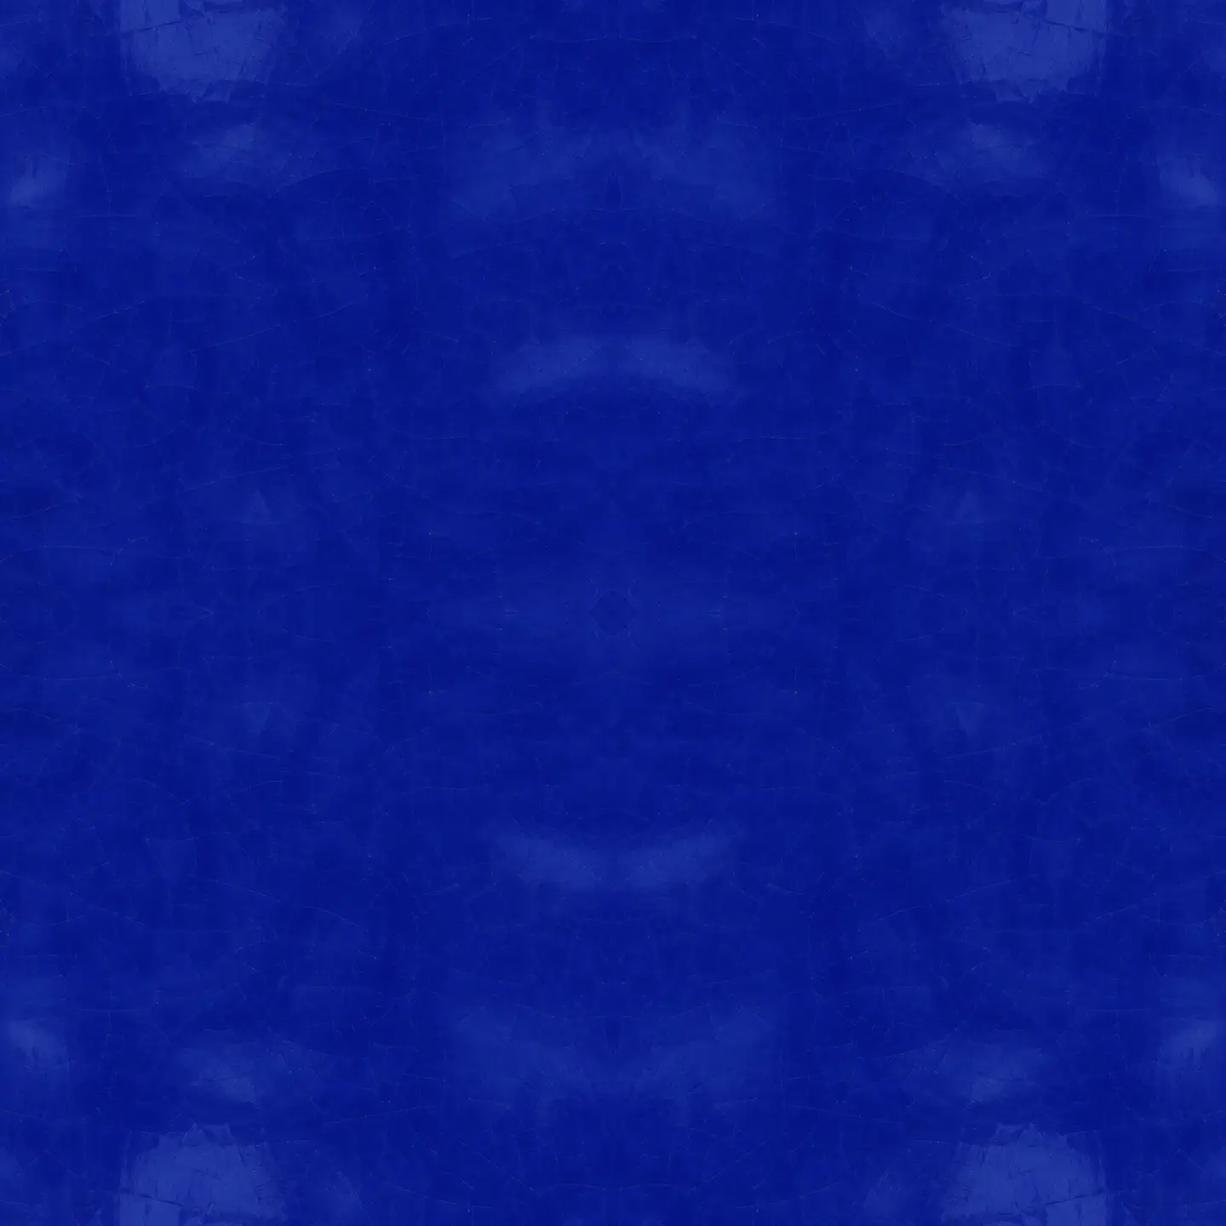
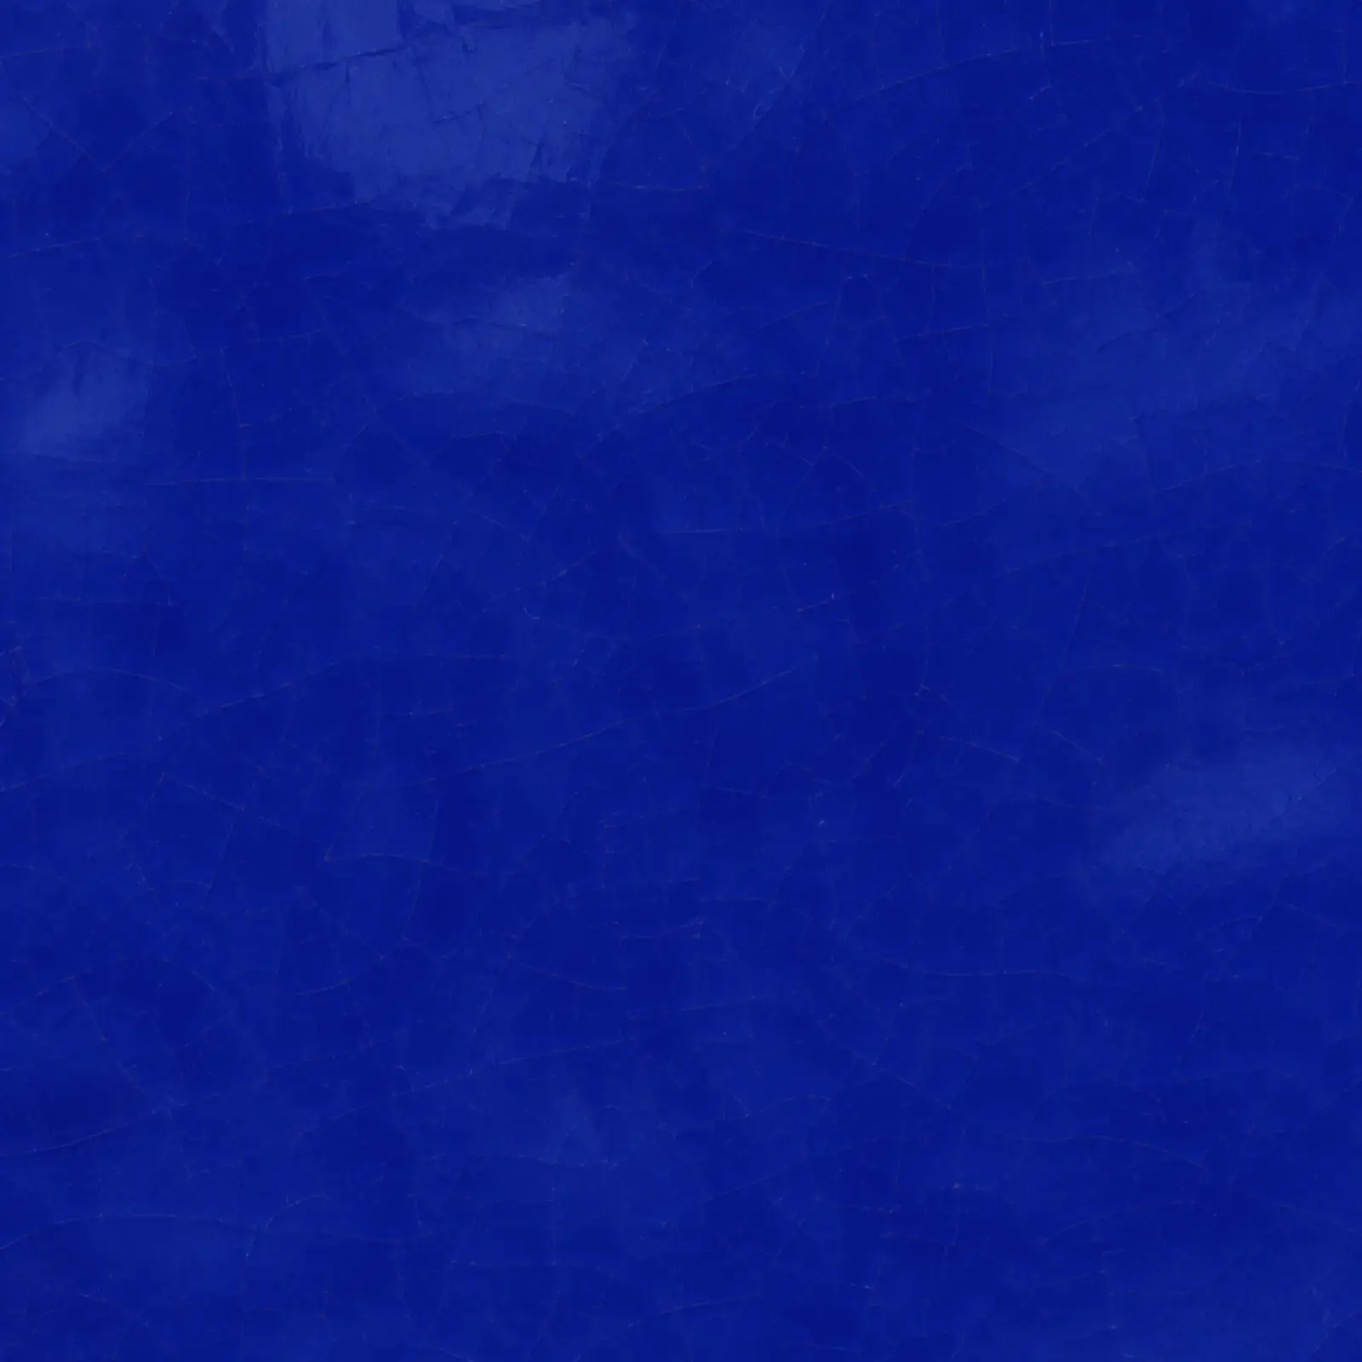
Segunda ronda de revisión: esmalte de fondo sin mosaico, 3 columnas desde 1360px, cortes de línea balanceados

diff --git a/src/app/globals.css b/src/app/globals.css
@@ -23,7 +23,7 @@
 }
 
 html {
-  background: var(--cobalt-deep);
+  background: var(--cobalt);
   color: var(--glaze-white);
   font-family: var(--font);
   -webkit-text-size-adjust: 100%;
@@ -35,8 +35,18 @@ body {
   min-height: 100dvh;
   font-size: var(--step-0);
   line-height: 1.5;
-  background: var(--cobalt) url(/plates/glaze-cobalt.webp) center top / 720px repeat;
+  background: transparent;
   -webkit-font-smoothing: antialiased;
+}
+
+/* La pared: una sola foto de esmalte, quieta detrás de todo (sin mosaico ni repeticiones). */
+body::before {
+  content: "";
+  position: fixed;
+  inset: 0;
+  z-index: -1;
+  background: var(--cobalt) url(/plates/glaze-cobalt.webp) center / cover no-repeat;
+  pointer-events: none;
 }
 
 ::selection {

diff --git a/src/components/store-view.module.css b/src/components/store-view.module.css
@@ -33,11 +33,12 @@
   font-size: var(--step-1);
   line-height: 1.35;
   font-weight: 400;
-  text-wrap: pretty;
+  text-wrap: balance;
 }
 
 .updated {
   margin: 0;
+  text-wrap: balance;
   font-size: var(--step-0);
   color: var(--glaze-soft);
 }
@@ -309,7 +310,7 @@
 
 @media (min-width: 1024px) {
   .wall:not([data-compact]) {
-    grid-template-columns: clamp(320px, 26vw, 420px) minmax(0, 1fr);
+    grid-template-columns: clamp(330px, 26vw, 420px) minmax(0, 1fr);
   }
 
   .wall:not([data-compact]) .intro {
@@ -333,7 +334,7 @@
   }
 }
 
-@media (min-width: 1500px) {
+@media (min-width: 1360px) {
   .wall:not([data-compact]) .tiles {
     grid-template-columns: repeat(3, minmax(0, 1fr));
   }

diff --git a/DESIGN.md b/DESIGN.md
@@ -1,9 +1,9 @@
 ---
 name: Norma · cerámica
-description: La pared esmaltada del taller donde Norma cuelga sus tablillas de prueba, cada una con su número grabado en el barro.
+description: La pared esmaltada del taller donde Norma cuelga sus tablillas de prueba, cada una con su número en el barro.
 colors:
-  cobalt: "#0b1a6e"
-  cobalt-deep: "#071150"
+  cobalt: "#0e2189"
+  cobalt-deep: "#091862"
   glaze-white: "#ffffff"
   glaze-soft: "#dfe5ff"
   glaze-line: "rgb(223 229 255 / 0.28)"
@@ -19,6 +19,13 @@ typography:
     fontWeight: 800
     lineHeight: 1.08
     letterSpacing: "-0.015em"
+  phone:
+    fontFamily: "Atkinson Hyperlegible Next, system-ui, sans-serif"
+    fontSize: "clamp(2rem, 1.6rem + 1.6vw, 2.75rem)"
+    fontWeight: 800
+    lineHeight: 1.15
+    letterSpacing: "0.01em"
+    fontFeature: "tnum"
   title:
     fontFamily: "Atkinson Hyperlegible Next, system-ui, sans-serif"
     fontSize: "clamp(1.5rem, 1.3rem + 0.8vw, 1.85rem)"
@@ -41,20 +48,20 @@ typography:
     lineHeight: 1.3
   tile-number:
     fontFamily: "Atkinson Hyperlegible Next, system-ui, sans-serif"
-    fontSize: "clamp(2.4rem, 13.5cqw, 4.2rem)"
+    fontSize: "clamp(2.8rem, 15cqw, 4.4rem)"
     fontWeight: 800
     lineHeight: 1
     letterSpacing: "-0.03em"
     fontFeature: "tnum"
   tile-price:
     fontFamily: "Atkinson Hyperlegible Next, system-ui, sans-serif"
-    fontSize: "clamp(1.4rem, 7.8cqw, 2rem)"
+    fontSize: "clamp(1.55rem, 8.5cqw, 2.1rem)"
     fontWeight: 800
     lineHeight: 1.1
     fontFeature: "tnum"
   tile-title:
     fontFamily: "Atkinson Hyperlegible Next, system-ui, sans-serif"
-    fontSize: "clamp(1.12rem, 6.2cqw, 1.6rem)"
+    fontSize: "clamp(1.3rem, 7cqw, 1.7rem)"
     fontWeight: 700
     lineHeight: 1.06
 rounded:
@@ -86,7 +93,13 @@ components:
     rounded: "{rounded.window}"
   phone-number:
     textColor: "{colors.glaze-white}"
-    typography: "{typography.title}"
+    typography: "{typography.phone}"
+  button-amber:
+    backgroundColor: "{colors.amber}"
+    textColor: "{colors.amber-ink}"
+    rounded: "{rounded.pill}"
+    padding: "8px 18px"
+    height: "44px"
   badge-flash:
     backgroundColor: "{colors.amber}"
     textColor: "{colors.amber-ink}"
@@ -100,132 +113,141 @@ components:
 
 **Creative North Star: "La pared del taller"**
 
-La página es la pared de esmalte cobalto del taller de Norma, y cada pieza es una tablilla de prueba de gres colgada de un clavo: arriba el esmalte (celadón, rojo hierro, shino o ceniza) con la foto embutida como una ventanita, abajo la franja de barro crudo donde el número está grabado, hundido, al lado del nombre y el precio. Los materiales son raster reales (`public/plates/`), no dibujos de vector: el cobalto es una textura que repite, las tablillas son losas fotográficas, y el logo y el trazo de pincel son máscaras que se pintan con el color del tema.
+La página es la pared de esmalte cobalto del taller de Norma, y cada pieza es una tablilla de prueba de gres colgada de un clavo: arriba el esmalte (celadón, rojo hierro, shino o ceniza) con la foto embutida como una ventanita, abajo la franja de barro crudo con el número de la pieza en tinta de sello, al lado del nombre y el precio. Los materiales son raster reales (`public/plates/`), no dibujos de vector: el cobalto es una textura craquelada con brillo suave que repite, las tablillas son losas fotográficas, y el logo (sólo la palabra a pincel) y el trazo de pincel son máscaras que se pintan con el color del tema.
 
 Está pensada para compradores de unos 70 años en el celular. Por eso todo es grande, en una sola familia tipográfica hiperlegible, con contraste alto y números enormes; la decoración nunca le compite a la lectura. Rechaza la grilla de tienda (card blanca, foto, título, botón) y el crema-serif-terracota genérico.
 
 **Key Characteristics:**
-- Fondo de esmalte cobalto texturado, texto blanco y blanco-esmalte.
-- Tablillas levemente torcidas sobre su clavo que se hamacan al tocarlas.
-- Número grabado en barro crudo como dato principal de cada pieza.
+- Fondo de esmalte cobalto craquelado, con rango tonal comprimido para que el texto blanco nunca baje de 7:1.
+- Tablillas verticales, levemente torcidas sobre su clavo, que se hamacan al tocarlas.
+- Número de pieza en tinta de barro como dato principal de cada tablilla.
 - Una sola tipografía (Atkinson Hyperlegible Next) en 400, 700 y 800.
 - Un dorso en texto llano: la misma lista como tabla, por si es más fácil.
 
 ## Colors
 
-Un mundo de dos materiales: esmalte cobalto profundo para el fondo y barro crudo para las etiquetas, con un único acento ámbar reservado para foco y novedad.
+Un mundo de dos materiales: esmalte cobalto profundo para el fondo y barro crudo para las etiquetas, con un único acento ámbar reservado para foco, novedad y la acción de ver el cambio.
 
 ### Primary
-- **Esmalte Cobalto** (cobalt): el color del fondo bajo la textura `glaze-cobalt.webp` (720px, repetida) y el `theme-color` del navegador. Todo el texto del mundo se lee sobre él.
-- **Cobalto de Horno** (cobalt-deep): el fondo del `html` (se ve en el overscroll) y el texto sobre la pestaña seleccionada.
+- **Esmalte Cobalto** (cobalt): color base bajo la textura `glaze-cobalt.webp` (720px, repetida) y `theme-color` del navegador. Contra el color plano, el blanco da 13.1:1; contra la textura, 7.9:1 en su punto más claro y 13.5:1 de promedio.
+- **Cobalto de Horno** (cobalt-deep): fondo del `html` (se ve en el overscroll) y texto sobre la pestaña seleccionada (15.9:1 sobre blanco).
 
 ### Secondary
-- **Ámbar de Foco** (amber): anillo de foco (3px, offset 4px), selección de texto y el aviso de "cambió" en el simulador. Nunca decorativo.
+- **Ámbar de Foco** (amber): anillo de foco (3px, offset 4px), selección de texto, aviso "cambió" y el botón "Ver cómo quedó la página". Nunca decorativo.
 - **Tinta Ámbar** (amber-ink): texto sobre ámbar (13.1:1).
 
 ### Neutral
-- **Blanco Esmalte** (glaze-white): texto principal, logo y trazo de pincel. 15.1:1 sobre cobalto.
-- **Esmalte Lavado** (glaze-soft): texto secundario (fecha, explicación, encabezados de tabla, pie). 12.1:1 sobre cobalto.
+- **Blanco Esmalte** (glaze-white): texto principal, logo y trazo de pincel.
+- **Esmalte Lavado** (glaze-soft): texto secundario (fecha, explicación, encabezados de tabla, pie). 10.5:1 sobre el cobalto plano, no menos de 6:1 en el punto más claro de la textura.
 - **Línea de Esmalte** (glaze-line): filetes de la tabla y separador del bloque de contacto (1–2px).
 - **Bizcocho** (bisque): referencia del barro crudo de las losas; la franja real es raster, el token fija contra qué se mide el contraste.
 - **Tinta de Barro** (clay-ink): nombre y precio sobre el barro, 9.3:1.
-- **Surco** (clay-groove): el número grabado, 7.0:1 sobre el barro.
+- **Tinta de Sello** (clay-groove): el número de pieza, 7.0:1 sobre el barro.
 
 ### Named Rules
-**The Un Solo Acento Rule.** El ámbar significa "acá estás" o "esto cambió": foco, selección, aviso. Si no es estado, no es ámbar.
+**The Un Solo Acento Rule.** El ámbar significa "acá estás", "esto cambió" o "mirá el cambio": foco, selección, aviso y su botón. Si no es estado, no es ámbar.
 
-**The Esmalte Real Rule.** El cobalto, las tablillas y el barro vienen de las plates raster. No se reemplazan por degradés ni por colores planos que imiten el material.
+**The Esmalte Real Rule.** El cobalto, las tablillas y el barro vienen de las plates raster. No se reemplazan por degradés ni por colores planos que imiten el material, y una plate nueva de fondo tiene que dejar el texto blanco por encima de 7:1 en su punto más claro.
 
 ## Typography
 
 **Body Font:** Atkinson Hyperlegible Next (vía `next/font`, pesos 400/700/800; con system-ui, sans-serif)
 
-**Character:** Una sola familia, diseñada para baja visión; la jerarquía sale de tamaño y peso, nunca de una segunda tipografía. El logo no es tipografía: es una máscara a pincel.
+**Character:** Una sola familia, diseñada para baja visión; la jerarquía sale de tamaño y peso, nunca de una segunda tipografía. El logo no es tipografía: es una palabra a pincel usada como máscara.
 
 ### Hierarchy
 - **Headline** (800, `--step-2`, 1.08, -0.015em): el título del simulador. En celular baja a 1.75rem.
-- **Title** (800, `--step-1`, 1.2): "¿Te gustó alguna?", el teléfono, el título de la lista.
+- **Teléfono** (800, `--step-2`, 1.15, tabular): en su propia línea, subrayado a pincel.
+- **Title** (800, `--step-1`, 1.2): "¿Te gustó alguna?" y el título de la lista.
 - **Lead** (400, `--step-1`, 1.35): el saludo de Norma, `text-wrap: pretty`.
-- **Body** (400, `--step-0` = 20–22px, 1.5): todo el texto corrido y la tabla; máximo 34–44rem de ancho.
-- **Label** (700, 1.05rem): pestañas, leyendas. La fecha y el pie usan 400 a 1.05rem/1rem en glaze-soft.
-- **Número de tablilla** (800, clamp(2.4rem, 13.5cqw, 4.2rem), 1, -0.03em, tabular): el dato más grande de la pieza.
-- **Precio** (800, clamp(1.4rem, 7.8cqw, 2rem), tabular) y **nombre** (700, clamp(1.12rem, 6.2cqw, 1.6rem), 1.06, máximo 2 líneas, balance).
+- **Body** (400, `--step-0` = 20–22px, 1.5): texto corrido, tabla y sus encabezados, fecha de actualización y pie. Ancho máximo de 34–44rem.
+- **Label** (700, 1.05rem): pestañas y leyendas del simulador.
+- **Número de tablilla** (800, `clamp(2.8rem, 15cqw, 4.4rem)`, 1, -0.03em, tabular): el dato más grande de la pieza, tinta plana sin relieve simulado.
+- **Precio** (800, `clamp(1.55rem, 8.5cqw, 2.1rem)`, tabular) y **nombre** (700, `clamp(1.3rem, 7cqw, 1.7rem)`, 1.06, `text-wrap: balance`, corte de seguridad a 3 líneas).
 
 ### Named Rules
 **The Números Enormes Rule.** El número y el precio de cada pieza son siempre más grandes que su nombre, y siempre en cifras tabulares.
 
-**The Piso de 1rem Rule.** En el mundo de Norma nada baja de 1rem (16px), y el cuerpo nunca de 1.25rem (20px).
+**The Piso de Cuerpo Rule.** En el mundo de Norma el texto que se lee va a `--step-0` (20px como mínimo), los datos de la tablilla no bajan de 1.3rem y nada baja de 1rem.
 
 ## Layout
 
-Una pared, no una grilla de tienda. Margen lateral `--gutter` (clamp(16px, 4.5vw, 56px)).
+Una pared, no una grilla de tienda. Margen lateral `--gutter`.
 
-- **Celular (<640px):** una columna. Logo (min(78vw, 360px)), saludo, bloque de contacto con el teléfono, fecha; la primera tablilla asoma en la primera pantalla.
+- **Celular (<640px):** una columna. Logo (min(62vw, 270px), proporción 698 / 333), saludo, bloque de contacto con el teléfono en su propia línea, fecha; la primera tablilla asoma en la primera pantalla. Las tablillas siguen verticales en celular: la variante apaisada se descartó porque achicaba la foto de la pieza.
 - **≥640px:** tablillas en 2 columnas.
-- **≥1024px:** columna izquierda de clamp(360px, 31vw, 470px) con el encabezado `sticky` (top 48px); la pared a la derecha.
-- **≥1360px:** 3 columnas de tablillas.
-- Espacio entre tablillas: clamp(40px, 6vw, 56px) vertical, clamp(24px, 3vw, 40px) horizontal (el vertical es mayor: hay lugar para que se hamaquen). El dorso arranca a clamp(56px, 9vw, 96px) y el pie a 56px.
-- **Simulador:** máximo 1180px centrado; dos celulares lado a lado desde 1024px, una pestaña "chat / página" debajo.
+- **≥1024px:** columna izquierda de clamp(320px, 26vw, 420px) con el encabezado `sticky` (top 48px) y el logo a min(100%, 280px); la pared a la derecha, todavía en 2 columnas.
+- **≥1500px:** 3 columnas de tablillas.
+- Espacio entre tablillas: `tile-row-gap` vertical y `tile-col-gap` horizontal (el vertical es mayor: hay lugar para que se hamaquen). El dorso arranca a `section-break` y el pie a 56px.
+- **Simulador:** máximo 1180px centrado; dos celulares lado a lado desde 1024px. Debajo de eso, una pestaña "chat / página" y el botón ámbar "Ver cómo quedó la página" dentro del hilo cuando hay un cambio.
 
 ## Elevation & Depth
 
-La profundidad es física: las tablillas cuelgan delante de la pared y la foto está hundida en el esmalte. No hay sombras de interfaz.
+La profundidad es física: las tablillas cuelgan delante de la pared y la foto está embutida en el esmalte. El número de pieza es tinta sobre el barro, plano. No hay sombras de interfaz en el mundo de Norma.
 
 ### Shadow Vocabulary
 - **Tablilla colgada** (`filter: drop-shadow(0 14px 14px rgb(2 6 40 / 0.55)) drop-shadow(0 2px 3px rgb(2 6 40 / 0.45))`): sigue la silueta irregular de la losa.
-- **Ventana hundida** (`box-shadow: inset 0 3px 8px rgb(20 10 0 / 0.45), inset 0 -1px 2px rgb(255 255 255 / 0.25)` más un borde `0 0 0 2px rgb(255 255 255 / 0.18)`): la foto embutida.
-- **Grabado** (`text-shadow: 0 1.5px 0 rgb(255 240 215 / 0.6), 0 -1px 1px rgb(40 20 5 / 0.45)`): número hundido en el barro; el surco separador usa el mismo par de luz y sombra.
+- **Ventana embutida** (`box-shadow: inset 0 3px 8px rgb(20 10 0 / 0.45), inset 0 -1px 2px rgb(255 255 255 / 0.25)` más un borde `0 0 0 2px rgb(255 255 255 / 0.18)`): la foto metida en el esmalte.
 - **Celular del simulador** (`box-shadow: 0 30px 50px -20px rgb(0 0 20 / 0.7), 0 0 0 1px rgb(255 255 255 / 0.08)`).
+- **Botón ámbar** (`box-shadow: 0 2px 6px rgb(0 0 0 / 0.18)`): lo despega apenas del fondo del chat.
 
 ### Named Rules
-**The Luz de Arriba Rule.** Toda sombra cae hacia abajo y todo grabado tiene su brillo debajo: una sola luz, cenital, en toda la pared.
+**The Luz de Arriba Rule.** Toda sombra cae hacia abajo: una sola luz, cenital, en toda la pared.
 
 ## Shapes
 
-Las siluetas las ponen las losas raster (bordes irregulares, proporción 1 / 1.14, con la franja de barro siempre en el 30% inferior). La interfaz casi no redondea: ventana de foto 4px, anillo de foco 6px. Las píldoras (999px) quedan para controles del simulador. Cada tablilla rota `--tilt` (entre -0.8° y +0.8°, fijo por número de pieza) desde su clavo (`transform-origin: 50% 1.5%`).
+Las siluetas las ponen las losas raster: bordes irregulares, proporción 1 / 1.14 (720 × 821), con el barro crudo siempre en el 30% inferior para que el texto nunca pise el esmalte. La interfaz casi no redondea: ventana de la foto 4px, anillo de foco 6px. Las píldoras (999px) quedan para controles del simulador. Cada tablilla rota `--tilt` (entre -0.8° y +0.8°, fijo por número de pieza) desde su clavo (`transform-origin: 50% 1.5%`).
 
 ## Components
 
 ### Tablilla (componente firma)
-- **Estructura:** losa raster (`tile-{celadon|ironred|shino|ash}.webp`, elegida por número de pieza) a 100% × 100%; foto en ventana (9.5% laterales, 10.5% arriba, 34.5% abajo); franja de etiqueta (6.5% / 6% laterales, 4.5% abajo, 25.5% de alto) con número, surco de 3px y, al lado, nombre y precio.
+- **Estructura:** losa raster (`tile-{celadon|ironred|shino|ash}.webp`, elegida por número de pieza) a 100% × 100%. Foto en ventana: 9.5% a los costados, 10.5% arriba, 34.5% abajo. Franja de etiqueta: 6.5% / 6% a los costados, 4.5% abajo, 25.5% de alto, con el contenido centrado en vertical: número, filete de 2px (`rgb(74 44 23 / 0.4)`, margen vertical del 8%) y, al lado, nombre y precio.
 - **Tamaños:** usa `container-type: inline-size`; número, nombre y precio escalan en `cqw`.
 - **Accesibilidad:** el `article` lleva todo en el `aria-label` ("Pieza número N: nombre, precio"); la etiqueta visual es `aria-hidden`.
 - **Movimiento:** la tablilla se hamaca sobre su clavo. Keyframes `swing`, 1.8s, `cubic-bezier(0.22, 1, 0.36, 1)`: rotación base, +3.2°, -2.2°, +1.3°, -0.7°, +0.3°, base (en 0/14/32/50/68/84/100%). Se dispara con `:hover` sólo si `(hover: hover)`, y con `:active` y `:focus-within` en táctil. Es un adorno: nada depende de él.
 
 ### Teléfono con trazo de pincel
-- Title (800) en blanco, `nowrap`, tabular; debajo un trazo de pincel (`stroke.webp` como máscara, 14px de alto, 92% de opacidad) que se pasa un poco de los bordes (-4% / -6%).
+- `--step-2` en 800, en blanco, en su propia línea (`display: block; width: fit-content`), tabular. Debajo, un trazo de pincel (`stroke.webp` como máscara, 16px de alto, 92% de opacidad) que se pasa un poco de los bordes (-4% / -6%).
 - El bloque de contacto aparece dos veces: en el encabezado y después de la lista. Separador superior de 2px en glaze-line.
 
 ### Lista en texto llano (el dorso)
-- Tabla de ancho completo hasta 40rem, cuerpo a `--step-0`, tabular. Encabezados 1rem/700 en glaze-soft con filete de 2px; filas de 10px de alto de padding con filete de 1px. Número en 800, precio a la derecha en 700.
+- Tabla a todo el ancho hasta 40rem, cuerpo y encabezados a `--step-0`, tabular. Encabezados en 700 y glaze-soft, con filete de 2px; filas con 10px de padding vertical y filete de 1px. Número en 800, precio a la derecha en 700.
 
 ### Pestañas del simulador
 - Carril píldora `rgb(4 10 50 / 0.55)` con borde interno de glaze-line; botones de 48px de alto mínimo. Seleccionada: blanco esmalte con texto cobalt-deep. Un punto ámbar de 10px marca "cambió". Sólo en <1024px.
 
+### Botón "Ver cómo quedó la página"
+- Píldora ámbar, 1rem/800, texto amber-ink, 44px de alto mínimo, padding 8px 18px. Aparece en el hilo después de un cambio y lleva a la pestaña de la página. Sólo en <1024px, donde las dos pantallas no se ven a la vez.
+
 ### Aviso "cambió"
-- Píldora ámbar, 0.9rem/800, entra con `flash` (2.4s, `cubic-bezier(0.16, 1, 0.3, 1)`: escala 0.6 → 1.08 → 1).
+- Píldora ámbar, 1rem/800, entra con `flash` (2.4s, `cubic-bezier(0.16, 1, 0.3, 1)`: escala 0.6 → 1.08 → 1).
 
 ### Logo
-- `logo.webp` como máscara (`.brush`), pintado con `currentColor` en blanco esmalte; proporción 1024 / 365. En el `h1`, con el nombre real en `sr-only`.
+- `logo.webp` como máscara (`.brush`): sólo la palabra a pincel, proporción 698 / 333, pintada con `currentColor` en blanco esmalte. En el `h1`, con el nombre real en `sr-only`. En el simulador vuelve al inicio (clamp(120px, 16vw, 190px)).
 
 ### Chat de WhatsApp (excepción autorizada)
-El chat del simulador usa los colores reales de WhatsApp a propósito, para que quien lo evalúa lo reconozca al instante. **No son parte de la paleta de la marca** y no se usan fuera del marco del celular: encabezado #008069, fondo del hilo #efeae2, burbuja recibida #fff, enviada #d9fdd3, texto #111b21, metadatos #667781, tildes leídas #53bdeb, aviso del sistema #fff6c5, barra de escritura #f0f2f5. Burbujas de 8px de radio con la esquina del lado del emisor en 0, mensajes que entran con `pop` (0.32s), hojas que suben con `rise` (0.35s). Íconos SVG de Lucide. El encabezado y el avatar sí llevan el logo de Norma sobre cobalto.
+El chat del simulador usa los colores reales de WhatsApp a propósito, para que quien lo evalúa lo reconozca al instante. **No son parte de la paleta de la marca** y no se usan fuera del marco del celular: encabezado #008069, fondo del hilo #efeae2, burbuja recibida #fff, enviada #d9fdd3, texto #111b21, metadatos e íconos #54656f (5.1:1 sobre el hilo), tildes de leído #53bdeb, aviso del sistema #fff6c5, barra de escritura #f0f2f5, borde de sugerencias #b8c1c6.
+- Arranca con una burbuja de bienvenida del bot que explica qué escribir.
+- Burbujas de 8px de radio con la esquina del lado del emisor en 0; mensajes que entran con `pop` (0.32s) y hojas que suben con `rise` (0.35s).
+- Pisos dentro del chat: texto de mensaje 1.05rem, sugerencias 1rem con 44px de alto, botón de reinicio 0.95rem con 44px de alto, controles de redacción de 48px, metadatos 0.8rem.
+- Íconos SVG de Lucide. El avatar lleva el logo de Norma sobre cobalto.
 
 ## Do's and Don'ts
 
 ### Do:
-- **Do** mantener el texto principal en glaze-white (15.1:1) y el secundario en glaze-soft (12.1:1) sobre cobalto; sobre barro, clay-ink (9.3:1) y clay-groove (7.0:1). Mínimo AA 4.5:1 para cualquier texto nuevo, apuntando a 7:1.
-- **Do** usar `--step-0` (20–22px) para el cuerpo y nunca menos de 1rem para texto del mundo de Norma.
-- **Do** dar a todo control al menos 48px de alto y foco visible ámbar (3px, offset 4px).
+- **Do** mantener el texto principal en glaze-white y el secundario en glaze-soft sobre el cobalto; sobre barro, clay-ink (9.3:1) y clay-groove (7.0:1). Cualquier texto nuevo necesita como mínimo 4.5:1 contra el punto más claro de su fondo, y conviene apuntar a 7:1.
+- **Do** usar `--step-0` (20–22px) para todo texto que se lee, incluidas la fecha, el pie y los encabezados de tabla; nada del mundo de Norma baja de 1rem.
+- **Do** dar a todo control al menos 44px de alto (48px en el mundo de Norma) y foco visible ámbar (3px, offset 4px).
 - **Do** que toda acción y todo dato funcione sin hover: el hover sólo agrega el balanceo, que también responde al toque.
 - **Do** cortar todo movimiento con `prefers-reduced-motion: reduce` (animaciones y transiciones en `none`); las tablillas quedan quietas en su inclinación.
-- **Do** producir plates nuevas con `assets/scripts/plates.mjs`: losas de 720 × 821 con la franja de barro en el 30% inferior, cobalto espejado 2×2 para repetir sin costura.
+- **Do** producir plates nuevas con `assets/scripts/plates.mjs`: losas de 720 × 821 con el barro en el 30% inferior; cobalto con rango tonal comprimido, espejado 2×2 para repetir sin costura.
 - **Do** escribir en castellano rioplatense, con la voz de Norma.
 
 ### Don't:
 - **Don't** volver a la grilla de tienda: card blanca, foto, título, botón.
 - **Don't** usar crema, serif y terracota como identidad.
-- **Don't** usar una segunda tipografía ni un peso menor a 400.
+- **Don't** usar una segunda tipografía.
 - **Don't** usar los verdes y beiges de WhatsApp fuera del marco del chat del simulador.
 - **Don't** poner el número o el precio de una pieza como imagen: siempre texto real.
+- **Don't** simular relieve en el número de pieza con text-shadow: es tinta plana sobre el barro.
 - **Don't** marcar estado sólo con color: también con forma (punto, píldora, pestaña llena).
